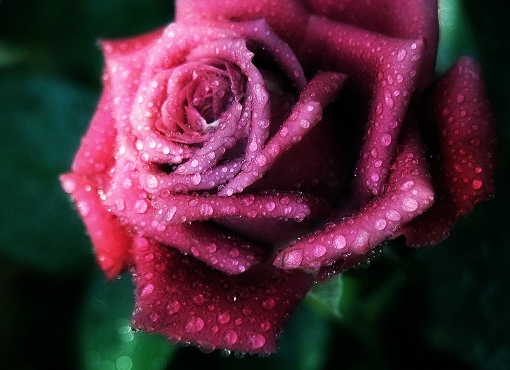
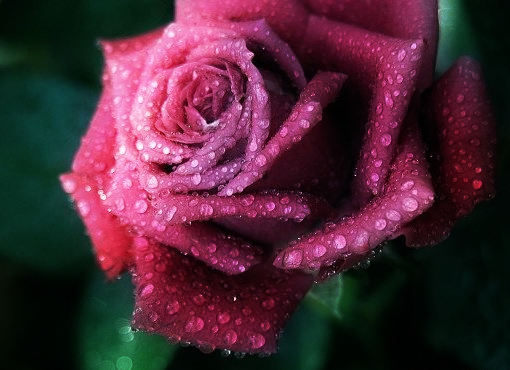
change image type from cv_32f to cv_8u

diff --git a/photoeffects/src/glow.cpp b/photoeffects/src/glow.cpp
@@ -17,6 +17,38 @@ namespace
         Mat foreImg = foreground.getMat();
         Mat backImg = background.getMat();
 
+		result.create(backImg.size(), backImg.type());
+        Mat resultImg = result.getMat();
+
+		Mat resultImg2(backImg.size(), CV_32SC1); 
+
+		backImg.convertTo(backImg, CV_32SC3);
+		backImg = backImg.reshape(1);
+		foreImg.convertTo(foreImg, CV_32SC3);	
+		foreImg = foreImg.reshape(1);
+		
+		Mat tmp;
+		TIMER_START(slow);
+		cv::multiply(foreImg, backImg, tmp, 2); 
+		tmp /= 255;
+		Mat mask = backImg > 127;
+		cv::add(-tmp, 2 * (foreImg + backImg) - 255, resultImg2, mask);
+		cv::add(tmp, 0, resultImg2, ~mask);
+		TIMER_END(slow);
+		resultImg2 = resultImg2.reshape(3);
+		backImg = backImg.reshape(3);
+		backImg.convertTo(backImg, CV_8UC3);
+		resultImg2.convertTo(resultImg2, CV_8UC3);
+
+		resultImg2.copyTo(resultImg);
+    }
+
+	
+    void overlay3(InputArray foreground, InputArray background, OutputArray result)
+    {
+        Mat foreImg = foreground.getMat();
+        Mat backImg = background.getMat();
+
         result.create(backImg.size(), backImg.type());
         Mat resultImg = result.getMat();
 
@@ -28,21 +60,19 @@ namespace
             {
                 for(int k = 0; k < COUNT_CHANNEL; k++)
                 {
-                    float intensFore = foreImg.at<Vec3f>(i, j)[k] / 255.0f;
-                    float intensBack = backImg.at<Vec3f>(i, j)[k] / 255.0f;
-                    float intensResult = 2.0f * intensFore * intensBack;
+                    uchar intensFore = foreImg.at<Vec3b>(i, j)[k];
+                    uchar intensBack = backImg.at<Vec3b>(i, j)[k];
+					int intensResult = (2 * intensFore * intensBack) / 255;
                     
-                    if (intensBack > 0.5f)
+                    if (intensBack > 127)
                     {
-                        intensResult = -intensResult - 1.0f + 2.0f * (intensFore + intensBack);
+                        intensResult = cv::min(-intensResult - 255 +2 * (intensFore + intensBack), 255);
                     }
-    
-                    resultImg.at<Vec3f>(i,j)[k] = intensResult * 255.0f;
+					resultImg.at<Vec3b>(i, j)[k] = intensResult;
                 }
             }
         }
     }
-
 
     void overlay(InputArray foreground, InputArray background, OutputArray result)
     {
@@ -111,32 +141,33 @@ int glow(InputArray src, OutputArray dst, int radius, float intensity)
     CV_Assert(intensity >= 0.0f && intensity <= 1.0f);
 
     int srcImgType = srcImg.type();
-    if (srcImgType != CV_32FC3)
+    if (srcImgType != CV_8UC3)
     {
-		TIMER_START(to32f);
-        srcImg.convertTo(srcImg, CV_32FC3);
-		TIMER_END(to32f);
+        srcImg.convertTo(srcImg, CV_8UC3);
     }
 
     Mat blurImg;
     Size size(radius, radius);
-	TIMER_START(blur);
     GaussianBlur(srcImg, blurImg, size, 0.0f, 0.0f);
-	TIMER_END(blur);
     Mat overlayImg;
-	TIMER_START(overl);
-    overlay(blurImg, srcImg, overlayImg);
-	TIMER_END(overl);
-	overlayImg.convertTo(overlayImg, CV_8UC3);
+    overlay3(blurImg, srcImg, overlayImg);
+	/*
+	blurImg.convertTo(blurImg, CV_32FC3);
+	srcImg.convertTo(srcImg, CV_32FC3);
+	Mat overlayImg2;
+    overlay(blurImg, srcImg, overlayImg2);
+	blurImg.convertTo(blurImg, CV_8UC3);
 	srcImg.convertTo(srcImg, CV_8UC3);
-	TIMER_START(opac);
+	overlayImg2.convertTo(overlayImg2, CV_8UC3);
+	Mat diff = abs(overlayImg2 - overlayImg);
+	diff = diff.reshape(1);
+	Mat mask = diff > 1;
+	printf("%d\n", cv::countNonZero(mask));
+	*/
+
 	uchar coeff = static_cast<uchar>(intensity * 256.0 + 0.5);
-	Mat dstImg = (coeff * overlayImg - (256 - coeff) * srcImg) / 256; 
+	Mat dstImg = (coeff * overlayImg + (256 - coeff) * srcImg) / 256; 
     //opacity(overlayImg, srcImg, dst, intensity);
-	TIMER_END(opac);
-    //Mat dstImg = dst.getMat();
-    TIMER_START(toSrcType);
     dstImg.convertTo(dst, srcImgType);
-    TIMER_END(toSrcType);
     return 0;
 }
